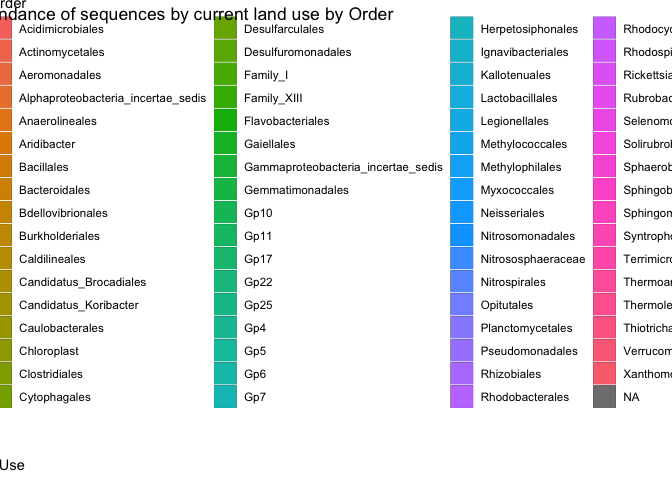
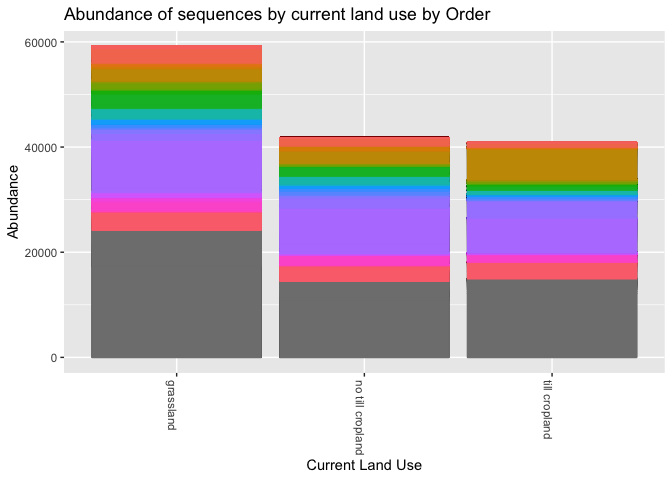
Remove legend form figure
The legend of the second to last figure was removed
to better view the figure.

diff --git a/Final_Report.md b/Final_Report.md
@@ -406,6 +406,7 @@ plot_bar(phyloseq_obj,
                fill = Order),
            stat = "identity",
            position = "stack") +
+theme(legend.position = "NA") + # legend removed since it was distracting
   xlab("Current Land Use") +
    ggtitle("Abundance of sequences by current land use by Order")
 ```
